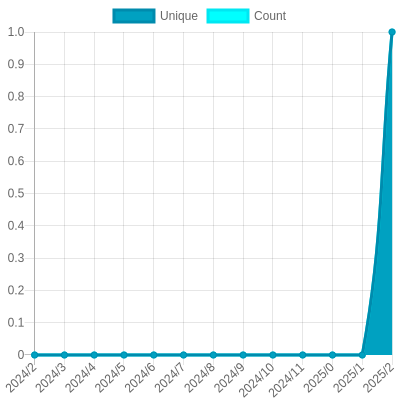
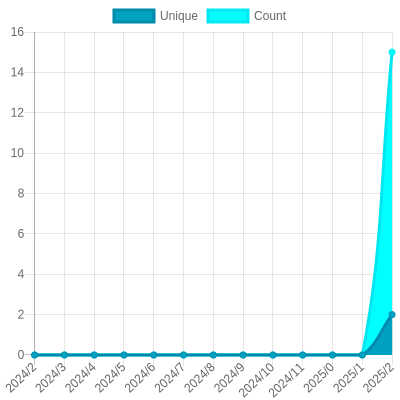
Update views

diff --git a/readme/714185209/year.md b/readme/714185209/year.md
@@ -23,10 +23,10 @@
 			<code>2024/3/1</code>
 		</td>
 		<td>
-			<code>1</code>
+			<code>2</code>
 		</td>
 		<td>
-			<code>1</code>
+			<code>15</code>
 		</td>
 	</tr>
 	<tr>
@@ -164,7 +164,7 @@
 </table>
 
 </details>
-<small><i>Last updated on 2024/3/16 12:13 PM UTC</i></small>
+<small><i>Last updated on 2024/3/16 6:08 PM UTC</i></small>
 
 ## ✂Copy and 📋 Paste
 ### SVG Badge

diff --git a/README.md b/README.md
@@ -69,7 +69,7 @@ The project created and maintained by [gayanvoice](https://github.com/gayanvoice
 	</tr>
 </table>
 
-<small><i>Last updated on 2024/3/16 12:13 PM UTC</i></small>
+<small><i>Last updated on 2024/3/16 6:09 PM UTC</i></small>
 
 ## ✂Copy and 📋 Paste
 ### Total Views Badge

diff --git a/readme/631992812/year.md b/readme/631992812/year.md
@@ -164,7 +164,7 @@
 </table>
 
 </details>
-<small><i>Last updated on 2024/3/16 12:13 PM UTC</i></small>
+<small><i>Last updated on 2024/3/16 6:08 PM UTC</i></small>
 
 ## ✂Copy and 📋 Paste
 ### SVG Badge

diff --git a/readme/655957517/year.md b/readme/655957517/year.md
@@ -164,7 +164,7 @@
 </table>
 
 </details>
-<small><i>Last updated on 2024/3/16 12:12 PM UTC</i></small>
+<small><i>Last updated on 2024/3/16 6:08 PM UTC</i></small>
 
 ## ✂Copy and 📋 Paste
 ### SVG Badge
